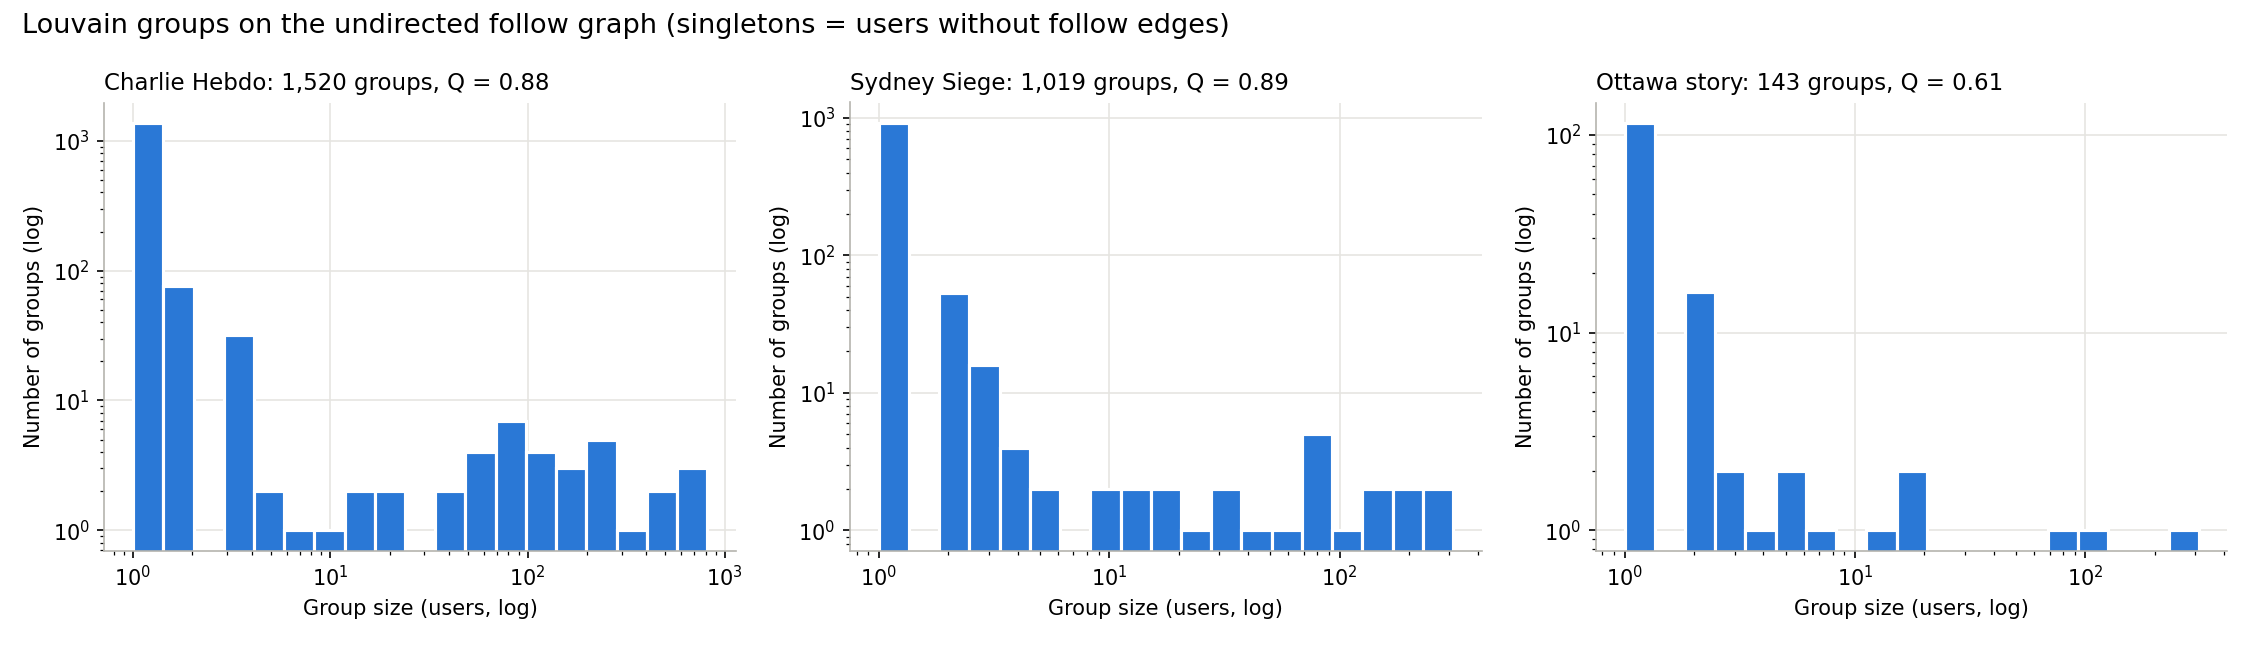
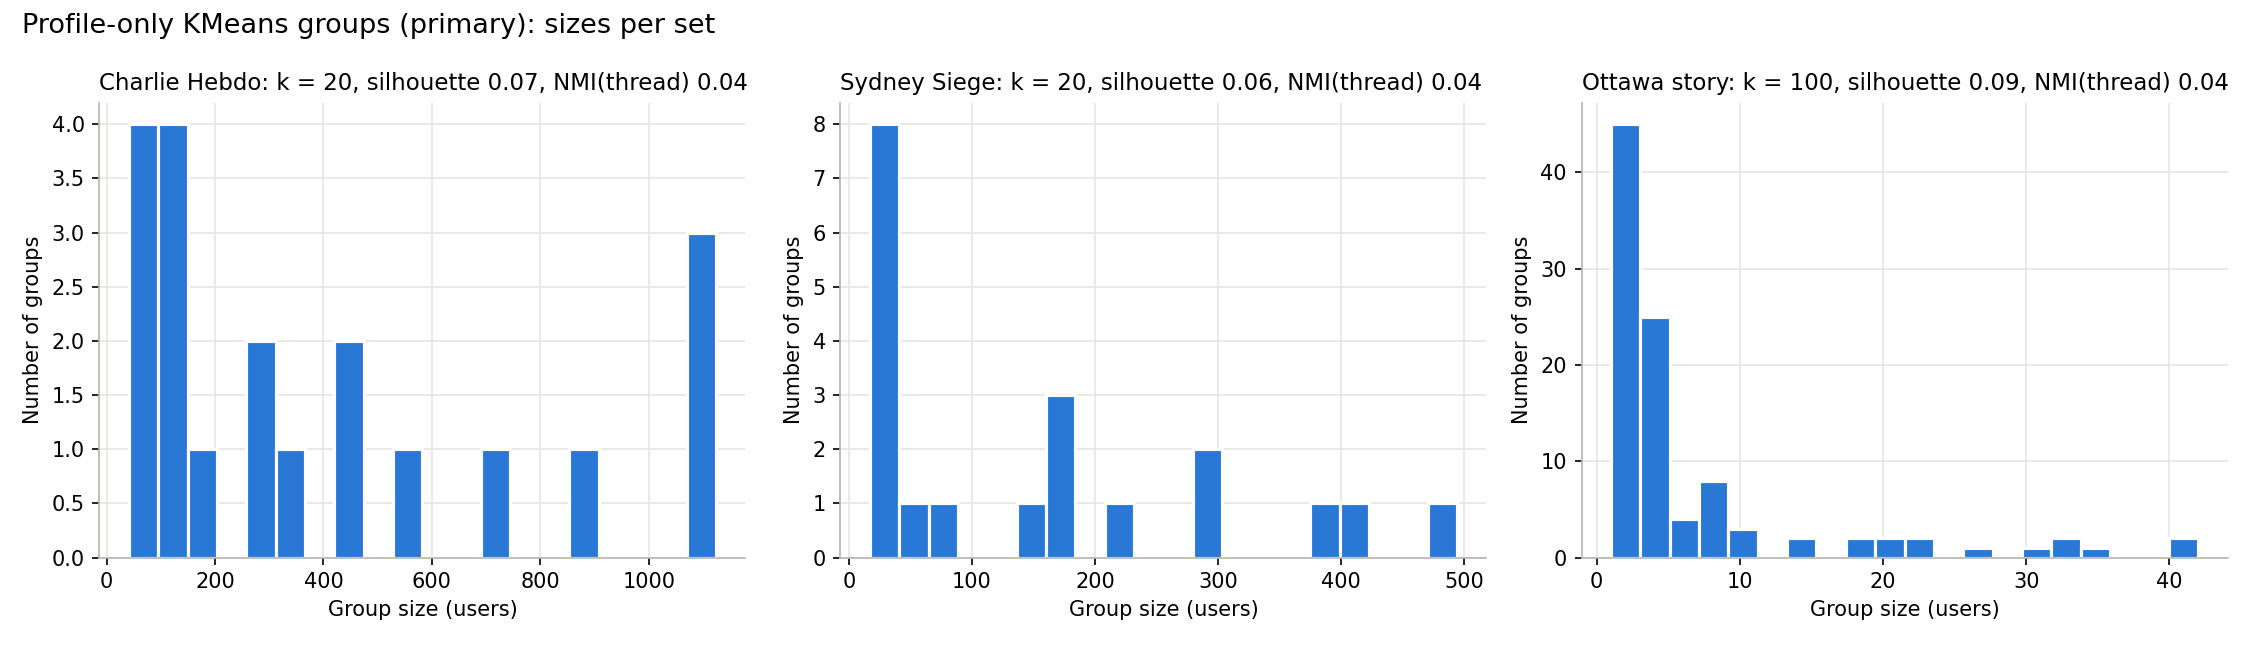
Phase 3: profile-only KMeans groups as primary, follow-Louvain as variant

diff --git a/src/network.py b/src/network.py
@@ -4,7 +4,8 @@ For each set (Charlie Hebdo, Sydney Siege, Ottawa robustness story):
   PageRank on the follow graph (edge u -> v = u follows v, so followed accounts score high)
   core = top 1% by PageRank; strong layer = follows a core node; weak = everyone else
   mpr = tau * (k1 * pr_norm + k2 * Info_match)  (Eq. 17);  loss factor r = 1 - mpr_norm, clipped
-  groups = Louvain communities of the undirected follow graph (no retweet-based Prb: that is the outcome)
+  groups = KMeans on profile-only features (primary; no event behaviour, no follow graph), with
+           Louvain on the undirected follow graph kept as a robustness variant (DECISIONS D37)
   Gact = mean log1p(statuses_count) of members; Gpre = Jaccard(group TF-IDF keywords, rumour tags)
   Group_att = Gact_norm * Gpre
 
@@ -22,8 +23,11 @@ import matplotlib.pyplot as plt
 import networkx as nx
 import numpy as np
 import pandas as pd
+from sklearn.cluster import KMeans
+from sklearn.decomposition import TruncatedSVD
 from sklearn.feature_extraction.text import TfidfVectorizer
-from sklearn.metrics import roc_auc_score
+from sklearn.metrics import normalized_mutual_info_score, roc_auc_score, silhouette_score
+from sklearn.preprocessing import StandardScaler
 
 import data_prep as dp
 import features as ft
@@ -35,9 +39,14 @@ PAGERANK_ALPHA = 0.85
 TAU, K1, K2 = 1.0, 0.5, 0.5                  # Eq. 17 weights (DECISIONS D33)
 R_CLIP = (0.05, 0.95)
 TOP_K_GROUP = 30
+K_OPTIONS = [20, 50, 100]                    # KMeans k candidates, chosen by silhouette (D37)
+PROFILE_SVD_DIMS = 50
+SILHOUETTE_SAMPLE = 5000
+MAX_THREAD_NMI = 0.3
 LAYERS = ["core", "strong", "weak"]
 LAYER_CODE = {"weak": 0, "strong": 1, "core": 2}
-AUC_COLUMNS = ["pr_norm", "layer_code", "r", "Gact", "Gpre", "Group_att"]
+AUC_COLUMNS = ["pr_norm", "layer_code", "r", "Gact", "Gpre", "Group_att",
+               "Gact_follow", "Gpre_follow", "Group_att_follow"]
 
 
 # ---------------------------------------------------------------- layers
@@ -97,6 +106,42 @@ def louvain_groups(F):
     return pd.Series(group, name="group"), nx.community.modularity(U, comms)
 
 
+def profile_matrix(users, t0):
+    """Profile-only features (no event behaviour): TF-IDF of profile descriptions reduced by SVD, plus
+    standardised log1p of followers, friends, statuses and account age in days at the event start.
+    Both blocks are scaled to the same total variance (DECISIONS D37)."""
+    docs = [" ".join(ft.tokens(d)) for d in users["description"]]
+    tfidf = TfidfVectorizer(stop_words="english", token_pattern=r"(?u)\b[a-z][a-z']+\b", min_df=2).fit_transform(docs)
+    n_comp = min(PROFILE_SVD_DIMS, tfidf.shape[1] - 1)
+    text = StandardScaler().fit_transform(TruncatedSVD(n_comp, random_state=dp.SEED).fit_transform(tfidf))
+    created = pd.to_datetime(users["user_created_at"], format="%a %b %d %H:%M:%S +0000 %Y", utc=True)
+    age_days = ((t0 - created) / pd.Timedelta(days=1)).clip(lower=0)
+    numeric = np.log1p(np.column_stack([users["followers_count"], users["friends_count"],
+                                        users["statuses_count"], age_days]).astype(float))
+    numeric = StandardScaler().fit_transform(numeric)
+    text *= np.sqrt(numeric.shape[1] / n_comp)
+    return np.hstack([text, numeric])
+
+
+def profile_groups(users, t0):
+    """KMeans (seed 42) on profile-only features; k from K_OPTIONS by silhouette score."""
+    X = profile_matrix(users, t0)
+    rows, labels = [], {}
+    for k in K_OPTIONS:
+        if k >= len(users):
+            continue
+        labels[k] = KMeans(k, n_init=10, random_state=dp.SEED).fit_predict(X)
+        sil = silhouette_score(X, labels[k], sample_size=min(SILHOUETTE_SAMPLE, len(users)), random_state=dp.SEED)
+        rows.append({"k": k, "silhouette": sil})
+    sil = pd.DataFrame(rows)
+    best = int(sil.loc[sil["silhouette"].idxmax(), "k"])
+    return pd.Series(labels[best], index=users.index, name="group"), best, sil
+
+
+def first_thread(tweets):
+    return tweets.sort_values("created_at").groupby("user_id")["thread_id"].first()
+
+
 def group_scores(group, users, texts, rumour_tags):
     """Per group: size, Gact (mean log1p statuses_count), Gpre (Jaccard of top-30 TF-IDF keywords of
     members' own pre-entry text + profiles with the rumour tags), Group_att = Gact_norm * Gpre."""
@@ -140,26 +185,43 @@ def build_set(key, lex, rumour_tags):
                            **{f"{l}_pct": 100 * counts[l] / len(lay) for l in LAYERS},
                            **source_authors_in_core(tweets, c)})
 
-    t_ref, _ = ft.reference_times(users, curves)
+    t_ref, t0 = ft.reference_times(users, curves)
     texts, _, _, _ = ft.user_texts(tweets, users, t_ref, lex)
-    group, modularity = louvain_groups(F)
+    thread = first_thread(tweets).reindex(users.index)
+
+    # primary: KMeans on profile-only features; robustness variant: Louvain on the follow graph (D37)
+    group, k, sil = profile_groups(users, t0)
+    group_f, modularity_f = louvain_groups(F)
+    group_f = group_f.reindex(users.index)
     scores = group_scores(group, users, texts, rumour_tags)
-    net["group"] = group.reindex(users.index)
+    scores_f = group_scores(group_f, users, texts, rumour_tags)
+    net["group"] = group
     net = net.join(scores[["size", "Gact", "Gact_norm", "Gpre", "Group_att"]].rename(columns={"size": "group_size"}),
                    on="group")
+    net["group_follow"] = group_f
+    net = net.join(scores_f[["size", "Gact", "Gact_norm", "Gpre", "Group_att"]].add_suffix("_follow")
+                   .rename(columns={"size_follow": "group_size_follow"}), on="group_follow")
+    net["first_thread"] = thread
     net["y"] = feats["y"]
 
-    sizes = scores["size"]
-    group_row = {"set": key, "N": len(users), "groups": len(scores), "singletons": int((sizes == 1).sum()),
-                 "groups_size_ge_2": int((sizes >= 2).sum()), "groups_size_ge_10": int((sizes >= 10).sum()),
-                 "largest": int(sizes.max()), "median_size": float(sizes.median()),
-                 "users_in_groups_ge_10_pct": 100 * sizes[sizes >= 10].sum() / len(users),
-                 "modularity": modularity, "Gpre_nonzero_groups": int((scores["Gpre"] > 0).sum()),
-                 "Gpre_nonzero_users_pct": 100 * (net["Gpre"] > 0).mean()}
+    group_rows = []
+    for variant, g, sc in (("profile_kmeans", group, scores), ("follow_louvain", group_f, scores_f)):
+        sizes = sc["size"]
+        group_rows.append({
+            "set": key, "variant": variant, "primary": variant == "profile_kmeans", "N": len(users),
+            "groups": len(sc), "k_chosen": k if variant == "profile_kmeans" else np.nan,
+            "silhouette": float(sil["silhouette"].max()) if variant == "profile_kmeans" else np.nan,
+            "modularity": modularity_f if variant == "follow_louvain" else np.nan,
+            "singletons": int((sizes == 1).sum()), "smallest": int(sizes.min()), "median_size": float(sizes.median()),
+            "largest": int(sizes.max()),
+            "nmi_first_thread": normalized_mutual_info_score(thread, g),
+            "Gpre_nonzero_users_pct": 100 * (g.map(sc["Gpre"]) > 0).mean()})
+    sil.insert(0, "set", key)
 
     net.to_csv(os.path.join(dp.PROCESSED, f"network_{key}.csv"))
     scores.to_csv(os.path.join(dp.PROCESSED, f"groups_{key}.csv"))
-    return net, scores, layer_rows, group_row
+    scores_f.to_csv(os.path.join(dp.PROCESSED, f"groups_follow_{key}.csv"))
+    return net, scores, layer_rows, group_rows, sil
 
 
 def auc_table(net, key):
@@ -203,17 +265,16 @@ def plot_layers(layers):
 
 
 def plot_group_sizes(all_scores, groups):
+    """Histogram of profile-KMeans group sizes per set (primary grouping)."""
     fig, axes = plt.subplots(1, len(SETS), figsize=(5 * len(SETS), 4.3), squeeze=False)
     for ax, key in zip(axes[0], SETS):
         sizes = all_scores[key]["size"]
-        bins = np.logspace(0, np.log10(sizes.max() + 1), 20)
-        ax.hist(sizes, bins=bins, color="#2a78d6", edgecolor="white", linewidth=1.5)
-        ax.set_xscale("log")
-        ax.set_yscale("log")
-        g = groups[groups["set"] == key].iloc[0]
-        dp.style(ax, f"{dp.EVENT_NAMES.get(key, 'Ottawa story')}: {int(g['groups']):,} groups, "
-                     f"Q = {g['modularity']:.2f}", "Number of groups (log)", xlabel="Group size (users, log)")
-    fig.suptitle("Louvain groups on the undirected follow graph (singletons = users without follow edges)",
+        ax.hist(sizes, bins=20, color="#2a78d6", edgecolor="white", linewidth=1.5)
+        g = groups[(groups["set"] == key) & groups["primary"]].iloc[0]
+        dp.style(ax, f"{dp.EVENT_NAMES.get(key, 'Ottawa story')}: k = {int(g['k_chosen'])}, "
+                     f"silhouette {g['silhouette']:.2f}, NMI(thread) {g['nmi_first_thread']:.2f}",
+                 "Number of groups", xlabel="Group size (users)")
+    fig.suptitle("Profile-only KMeans groups (primary): sizes per set",
                  fontsize=13, x=0.01, ha="left")
     return dp.save(fig, "phase3_group_sizes.png")
 
@@ -224,12 +285,13 @@ def main():
     pd.set_option("display.width", 230, "display.max_colwidth", 90)
     lex = ft.load_lexicon()
     coverage = pd.read_csv(os.path.join(dp.RESULTS, "phase2_coverage.csv")).set_index("set")
-    layers, groups, aucs, all_scores = [], [], [], {}
+    layers, groups, aucs, all_scores, sils = [], [], [], {}, []
     for key in SETS:
         rumour_tags = set(coverage.at[key, "rumour_tags"].split())
-        net, scores, layer_rows, group_row = build_set(key, lex, rumour_tags)
+        net, scores, layer_rows, group_rows, sil = build_set(key, lex, rumour_tags)
         layers += layer_rows
-        groups.append(group_row)
+        groups += group_rows
+        sils.append(sil)
         aucs.append(auc_table(net, key))
         all_scores[key] = scores
         top = scores[scores["size"] >= 10].sort_values("Group_att", ascending=False).head(3)
@@ -238,12 +300,16 @@ def main():
     layers, groups, auc = pd.DataFrame(layers), pd.DataFrame(groups), pd.concat(aucs, ignore_index=True)
     layers.to_csv(os.path.join(dp.RESULTS, "phase3_layers.csv"), index=False)
     groups.to_csv(os.path.join(dp.RESULTS, "phase3_groups.csv"), index=False)
+    sils = pd.concat(sils, ignore_index=True)
+    sils.to_csv(os.path.join(dp.RESULTS, "phase3_kmeans_silhouette.csv"), index=False)
     auc.to_csv(os.path.join(dp.RESULTS, "phase3_auc.csv"), index=False)
     plot_layers(layers)
     plot_group_sizes(all_scores, groups)
     print("\n=== Layers (core share sensitivity) and source authors in the core ===")
     print(layers.round(1).to_string(index=False))
-    print("\n=== Groups ===")
+    print("\n=== KMeans silhouette by k ===")
+    print(sils.round(4).to_string(index=False))
+    print("\n=== Groups (primary = profile KMeans; follow Louvain = robustness variant) ===")
     print(groups.round(3).to_string(index=False))
     print("\n=== Leakage check: single-feature ROC-AUC (y = first side I) ===")
     print(auc.round(4).to_string(index=False))
@@ -264,17 +330,22 @@ def check():
         for share in CORE_SENSITIVITY:
             row = layers[(layers["set"] == key) & np.isclose(layers["core_share_pct"], 100 * share)].iloc[0]
             assert sum(row[f"{l}_users"] for l in LAYERS) == N, f"{key}: layer sizes do not sum to N"
-        assert net["group"].notna().all() and (net.groupby("user_id")["group"].nunique() == 1).all(), \
-            f"{key}: a user without exactly one group"
+        for col in ("group", "group_follow"):
+            assert net[col].notna().all() and (net.groupby("user_id")[col].nunique() == 1).all(), \
+                f"{key}: a user without exactly one {col}"
+        nmi = normalized_mutual_info_score(net["first_thread"], net["group"])
+        assert nmi < MAX_THREAD_NMI, f"{key}: profile groups still track threads (NMI {nmi:.3f})"
+        nmi_f = normalized_mutual_info_score(net["first_thread"], net["group_follow"])
         assert net["r"].between(*R_CLIP).all(), f"{key}: r outside {R_CLIP}"
         assert net["pr_norm"].between(0, 1).all() and net["mpr"].between(0, TAU).all()
-        for c in ("Gact_norm", "Gpre", "Group_att"):
+        for c in ("Gact_norm", "Gpre", "Group_att", "Gact_norm_follow", "Gpre_follow", "Group_att_follow"):
             assert net[c].notna().all() and net[c].between(0, 1).all(), f"{key}: {c} outside [0, 1]"
         bad = auc[(auc["set"] == key) & (auc["auc_any_direction"] > ft.AUC_LIMIT)]
         assert bad.empty, f"{key}: possible leakage, AUC > {ft.AUC_LIMIT}: {bad[['feature', 'auc']].to_dict('records')}"
         worst = auc[auc["set"] == key].sort_values("auc_any_direction").iloc[-1]
         sizes = net.groupby("group").size()
         print(f"{key:22s} OK  N={N:,}  core={n_core} ({100 * n_core / N:.1f}%)  groups={len(sizes):,}  "
+              f"NMI(group, thread) profile={nmi:.3f} vs follow={nmi_f:.3f}  "
               f"r in [{net['r'].min():.2f}, {net['r'].max():.2f}]  max AUC={worst['auc_any_direction']:.3f} ({worst['feature']})")
     print("All Phase 3 checks passed.")
 

diff --git a/DECISIONS.md b/DECISIONS.md
@@ -58,7 +58,8 @@ Every choice made where the paper is vague or wrong. Claude Code appends new ent
 | D31 | 2026-10-16 / P2 | **Limitation: text features are weak.** Only 2–4% of users wrote any own post before entering (most enter by retweet), so about 97% of user text is profile descriptions. Single-feature AUCs of S_emo and Info_match are 0.50–0.54, and Info_match is almost always 0 (median 0). **Expected consequence:** the Phase 6 emotion ablation will probably show a much smaller effect than the paper's (where removing emotion lowers the peak a lot). Report this honestly. | User decision (accepted as a limitation). It is the price of the no-leakage rule (D27). |
 | D32 | 2026-10-16 / P3 | **PageRank on follow edges only** (u→v = u follows v, so followed accounts score high; α = 0.85). **Interaction edges are excluded** (weight 0, not 0.5). **Core = top 1%** by PageRank (ties broken by user id). Sensitivity at 0.5% and 2% is in `results/phase3_layers.csv`. | Interaction edges are created by the outcome (a retweet points at the source author), so including them would raise source authors' PageRank because of the spreading itself. Source authors in the 1% core: CH 19/26 rumour (73%) and 1/1 correction; SS 11/14 rumour (79%) and 1/1 correction; story 1/1 and 1/1. |
 | D33 | 2026-10-16 / P3 | **Layers:** core; **strong** = non-core user who follows a core node directly; **weak** = everyone else. **Eq. 17:** mpr = τ·(k1·pr_norm + k2·Info_match) with **τ = 1, k1 = k2 = 0.5**, pr_norm = PageRank percentile (average rank for ties). **r = 1 − mpr_norm** (min-max over users), clipped to **[0.05, 0.95]**, so influential nodes lose less. Saved per user in `data/processed/network_<set>.csv`. | User spec. Because Info_match is almost always 0 (D31), r is effectively 1 − PageRank percentile. 1% layers (core / strong / weak): CH 1.0 / 56.5 / 42.5%, SS 1.0 / 45.0 / 54.0%, story 1.1 / 69.1 / 29.8%. |
-| D34 | 2026-10-16 / P3 | **Groups = Louvain communities (seed 42) of the undirected follow graph**, replacing the paper's KNN on Prb (shared actions on the same post). Users with no follow edges become singleton groups. | **Deviation from the paper.** Prb built from event retweets uses the outcome itself (users who retweeted the same rumour post would be grouped *because* they spread it). CH 1,520 groups (1,373 singletons, 36 with ≥ 10 users, largest 814, Q = 0.885); SS 1,019 (921 singletons, 22 ≥ 10, largest 310, Q = 0.887); story 143 (115, 6, 310, Q = 0.614). |
+| D34 | 2026-10-16 / P3 (revised) | *Superseded by D37 as the primary grouping.* Louvain communities (seed 42) of the undirected follow graph are kept only as a **robustness variant** (`group_follow`, `*_follow` columns, `groups_follow_<set>.csv`). Both replace the paper's KNN on Prb. | **Deviation from the paper:** Prb from event retweets uses the outcome itself. Louvain stats: CH 1,520 groups (Q = 0.885), SS 1,019 (Q = 0.887), story 143 (Q = 0.614). |
 | D35 | 2026-10-16 / P3 | **Gact = mean over members of log1p(statuses_count)** (account history), min-max normalised over groups → Gact_norm. Replaces Eq. 10's σ·originals + w_part·reposts. | That split would count event posts and reposts, which are the outcome. Caveat: statuses_count comes from the tweet's embedded user object, so it is the count at posting time and includes the few event tweets. |
 | D36 | 2026-10-16 / P3 | **Gpre = Jaccard(group's top 30 TF-IDF keywords, rumour tags)**, with the group document = members' OWN pre-entry text + profile descriptions (same texts as D27). Rumour tags as in Phase 2. **Group_att = Gact_norm × Gpre.** | User spec. Gpre > 0 for only 60 CH groups (16.9% of users), 28 SS (14.2%) and 5 story (2.6%). |
-| D37 | 2026-10-16 / P3 | **Observation, needs a decision: groups largely reconstruct thread membership.** `who-follows-whom.dat` only lists follows *among each thread's participants*, so the follow graph is dense inside threads and sparse across them. Louvain groups recover the user's first thread with NMI 0.71 (CH), 0.64 (SS) and 0.39 (story) over all users. In groups of ≥ 10 users the NMI is 0.81 / 0.82 / 0.68, and 75% / 77% / **100%** of members share the group's majority thread. Joining a thread is part of the outcome, so group membership partly encodes *which story (and so which side) a user engaged with*. Example: 86 of SS's 148 A users form one group of 99 with 0 I users (the "airspace closed" deniers), which drives SS Gpre AUC 0.741 and Gact 0.714. All AUCs are still < 0.95. The same selection affects PageRank/core (the core is mostly source authors). | A data-collection artefact (participant-only follow lists). It doesn't trip the AUC check, but it is a subtle leakage path for Phase 4. |
+| D37 | 2026-10-16 / P3 (revised) | **Primary groups = KMeans (seed 42, n_init 10) on profile-only features:** TF-IDF of profile descriptions (min_df 2) → TruncatedSVD (50 dims) → standardised, plus standardised log1p of followers, friends, statuses_count and account age in days at the event start. The two blocks are scaled to equal total variance (text × √(4/50)). **k ∈ {20, 50, 100} chosen by silhouette** (sample 5,000). Gact and Gpre are recomputed on these groups. Required **NMI(group, first thread) < 0.3** is asserted. | User decision (option b). The follow graph is collected per thread, so Louvain groups reconstructed threads (NMI 0.71 / 0.64 / 0.39), and joining a thread is part of the outcome. **Result:** k = 20 (CH, silhouette 0.068), 20 (SS, 0.064), 100 (story, 0.086; median group size 4, 12 singletons). **NMI with first thread: 0.038 / 0.035 / 0.045.** Group AUCs drop: SS Gpre 0.741 → 0.512, Gact 0.714 → 0.583, Group_att 0.732 → 0.503. **Caveat:** silhouettes are low (0.06–0.09), so profile clusters are soft. |
+| D38 | 2026-10-16 / P3 | **Limitation: the follow graph is collected per thread** (`who-follows-whom.dat` lists only follows among each thread's participants). It still underlies **PageRank / layers** (D32–D33), **friends** (D27) and therefore **P1** and the hnode/lnode blocks. There is no alternative graph in the data. Only the grouping was moved off it (D37). | User decision (accepted). Consequence: the follow structure partly reflects participation (the outcome). This is reported as a limitation of the network-based parts. |

diff --git a/CLAUDE.md b/CLAUDE.md
@@ -23,7 +23,7 @@ Centrality-Targeted Hybrid Control of Rumour–Correction Competition on Social 
 - **No leakage:** user features use only the user's OWN posts written before t_ref (entry time, or event end for S users) + profile description; never retweeted text (DECISIONS D27). Check single-feature AUC ≤ 0.95.
 - Popularity: Pop(t) = Σ_s w_s·0.5^((t−t0_s)/w), one term per kept story, w_s = log(1 + source-author followers), normalised max 1; half-life w free in Phase 5 (D26).
 - Network (Phase 3): PageRank on FOLLOW edges only (u→v = u follows v); core = top 1%; strong = follows a core node; weak = rest. mpr = τ(k1·pr_norm + k2·Info_match), τ = 1, k1 = k2 = 0.5; r = 1 − mpr_norm clipped [0.05, 0.95].
-- Groups: Louvain (seed 42) on the undirected follow graph — NOT KNN on Prb (event retweets = outcome). Gact = mean log1p(statuses_count); Gpre = Jaccard(group top-30 TF-IDF keywords of own pre-entry text + profiles, rumour tags); Group_att = Gact_norm × Gpre.
+- Groups: KMeans (seed 42) on PROFILE-ONLY features (description TF-IDF/SVD + log followers, friends, statuses, account age), k ∈ {20,50,100} by silhouette; NMI(group, first thread) must be < 0.3 (D37). Follow-Louvain kept as a robustness variant. NOT KNN on Prb (event retweets = outcome). The follow graph is collected per thread — limitation (D38). Gact = mean log1p(statuses_count); Gpre = Jaccard(group top-30 TF-IDF keywords of own pre-entry text + profiles, rumour tags); Group_att = Gact_norm × Gpre.
 - Friend power: log1p of the mean over friends of timestamped replies + retweets RECEIVED before the user's t_ref, excluding the user's own; no favourites (D29).
 - S_emo: users with no emotion words → has_emotion = 0, filled with the event mean (cosine undefined).
 - Content fit, group preference: Jaccard on tag/keyword sets.

diff --git a/PLAN.md b/PLAN.md
@@ -46,11 +46,11 @@ Only the user's OWN posts before t_ref + profile description (no retweeted text)
 1. PageRank on follow edges only (u→v = u follows v) → core = top 1% (0.5% / 2% sensitivity).
 2. Layers: strong = follows a core node, weak = rest.
 3. mpr = τ(k1·pr_norm + k2·Info_match) (Eq. 17); r = 1 − mpr_norm clipped to [0.05, 0.95].
-4. Groups: Louvain on the undirected follow graph (no Prb from event retweets — outcome leakage).
+4. Groups: KMeans on profile-only features, k by silhouette, NMI(group, thread) < 0.3; follow-Louvain as robustness variant (no Prb from event retweets — outcome leakage).
 5. Gact = mean log1p(statuses_count); Gpre = Jaccard(group top-30 TF-IDF keywords of own pre-entry text + profiles, rumour tags); Group_att = Gact_norm × Gpre.
 
 **Output:** `data/processed/network_<set>.csv`, `groups_<set>.csv`; `results/phase3_*.csv`, layer and group-size plots.
-**Check:** core small, layers sum to N; one group per user (count, sizes, modularity); r in [0.05, 0.95]; leakage AUC ≤ 0.95.
+**Check:** core small, layers sum to N; one group per user (count, sizes, silhouette / modularity); NMI(group, first thread) < 0.3; r in [0.05, 0.95]; leakage AUC ≤ 0.95.
 
 ## Phase 4 — Influence & push  (`src/drive.py`)  — docs/SAIR_paper.md §4
 1. Blocks: User_att, hnode_inf (low r), lnode_inf (high r), Group_att.
